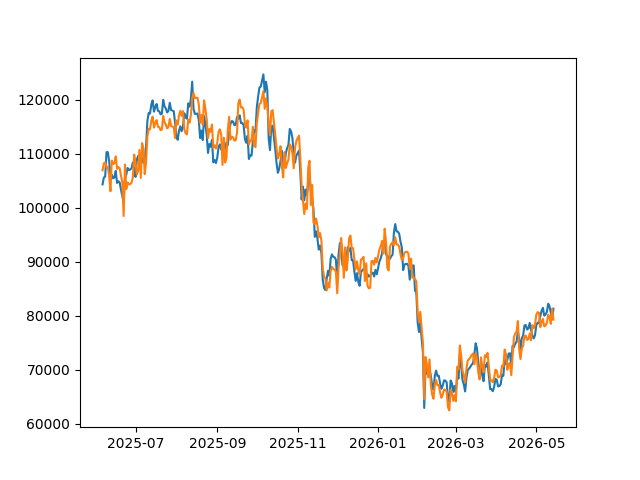
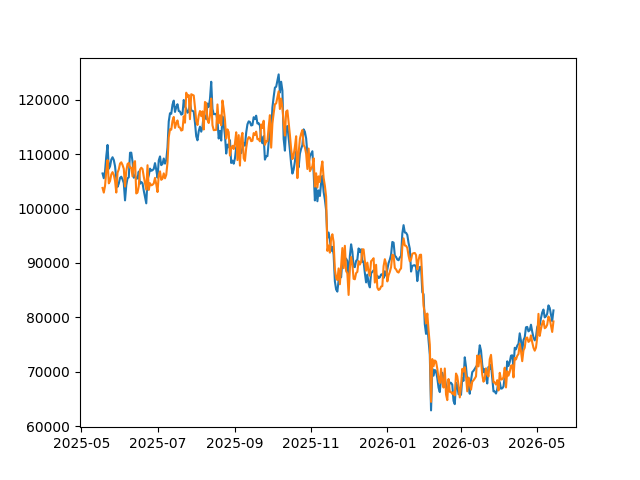
CatBoost

diff --git a/MLPipeline/app/main.py b/MLPipeline/app/main.py
@@ -17,7 +17,7 @@ from sklearn.model_selection import GridSearchCV
 from sklearn.tree import DecisionTreeClassifier
 from sklearn.tree import plot_tree
 from sklearn.metrics import accuracy_score
-import xgboost as xgb
+import catboost as cb
 
 current_file_path = Path(__file__).resolve()
 current_dir = current_file_path.parent
@@ -42,9 +42,9 @@ def main():
 
 	dataFrame = dataFrameDownloader(symbol='BTC', nameExchange='binance', amountDays=4*365, timeFrame='1d')
 
-	windowFeatures0 = 7
-	windowFeatures1 = 30
-	windowFeatures2 = 90
+	windowFeatures0 = 5
+	windowFeatures1 = 10
+	windowFeatures2 = 15
 
 	centreMoving = 20
 	quantile = 0.75
@@ -90,13 +90,13 @@ def main():
 	vectorF2 = np.array(workDataFrame['features2']).reshape(-1, 1)[uniCut:]
 	xTest = np.column_stack((vectorF0, vectorF1, vectorF2))
 
-	model = xgb.XGBClassifier(
-		n_estimators=100,      # количество деревьев
-		max_depth=3,           # глубина дерева
-		learning_rate=0.1,     # шаг градиентного спуска
-		objective='binary:logistic',  # для многоклассовой классификации
-		eval_metric='logloss',
-		random_state=42
+	model = cb.CatBoostClassifier(
+		iterations=100,           # количество деревьев (аналог n_estimators)
+		learning_rate=0.1,        # скорость обучения
+		depth=5,                  # глубина дерева (аналог max_depth)
+		loss_function='Logloss',  # бинарная классификация
+		random_seed=42,
+		verbose=False             # отключаем вывод (True - показывает прогресс)
 	)
 
 	model.fit(xTrain, yTrain)